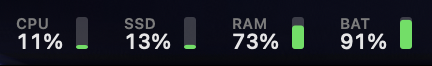
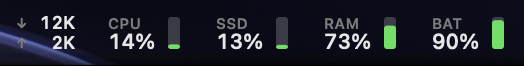
docs: add network meter to README

Changed region(s): [[0.0, 0.2424, 0.963, 1.0]]

diff --git a/README.md b/README.md
@@ -1,8 +1,8 @@
 <p align="center"><img src="Resources/icon.png" width="128" alt="Tidemark icon"></p>
 <h1 align="center">Tidemark</h1>
-<p align="center">CPU, RAM, disk and battery meters for your Mac menu bar.<br>One Swift file, no dependencies, about 1% CPU.</p>
+<p align="center">CPU, RAM, disk, battery and network meters for your Mac menu bar.<br>One Swift file, no dependencies, about 1% CPU.</p>
 
-<p align="center"><img src="docs/meters.png" width="216" alt="Tidemark meters in the menu bar: CPU, SSD, RAM, battery"></p>
+<p align="center"><img src="docs/meters.png" width="262" alt="Tidemark meters in the menu bar: network, CPU, SSD, RAM, battery"></p>
 
 ## Install
 
@@ -31,6 +31,7 @@ Each meter is a percentage next to a bar that fills up and changes colour. Click
 | **CPU** | green, orange above 60%, red above 85% | Top 8 apps by CPU |
 | **RAM** | macOS memory pressure, not % used | Memory breakdown and top 8 apps by memory |
 | **SSD** | orange above 80%, red above 92% | Used and available space |
+| **↓ ↑** | no bar, just download and upload speed | Speed in KB/s or MB/s over Wi-Fi and Ethernet |
 | **BAT** | orange at 20% or below, red at 10% or below | Time left, or time to full, and power draw in watts |
 
 <p>
@@ -46,6 +47,7 @@ The CPU and RAM menus also list the top 8 apps. Hover one in a process list for 
 - **RAM:** app + wired + compressed memory, as in Activity Monitor. A high number is normal because macOS caches files in spare RAM. The bar colour follows `kern.memorystatus_vm_pressure_level`, which is the real sign of trouble.
 - **Disk:** the `/` volume, counting space macOS can reclaim as free.
 - **Battery:** IOKit power sources. The time estimate comes from macOS and reflects current draw; watts come from the `AppleSmartBattery` gauge.
+- **Network:** bytes in and out of the `en*` interfaces (Wi-Fi and Ethernet) between two samples. VPN tunnels are skipped so traffic is not counted twice.
 - Stats refresh every 3 seconds. Process lists use `ps` and only run while a menu is open.
 
 ## Project layout
